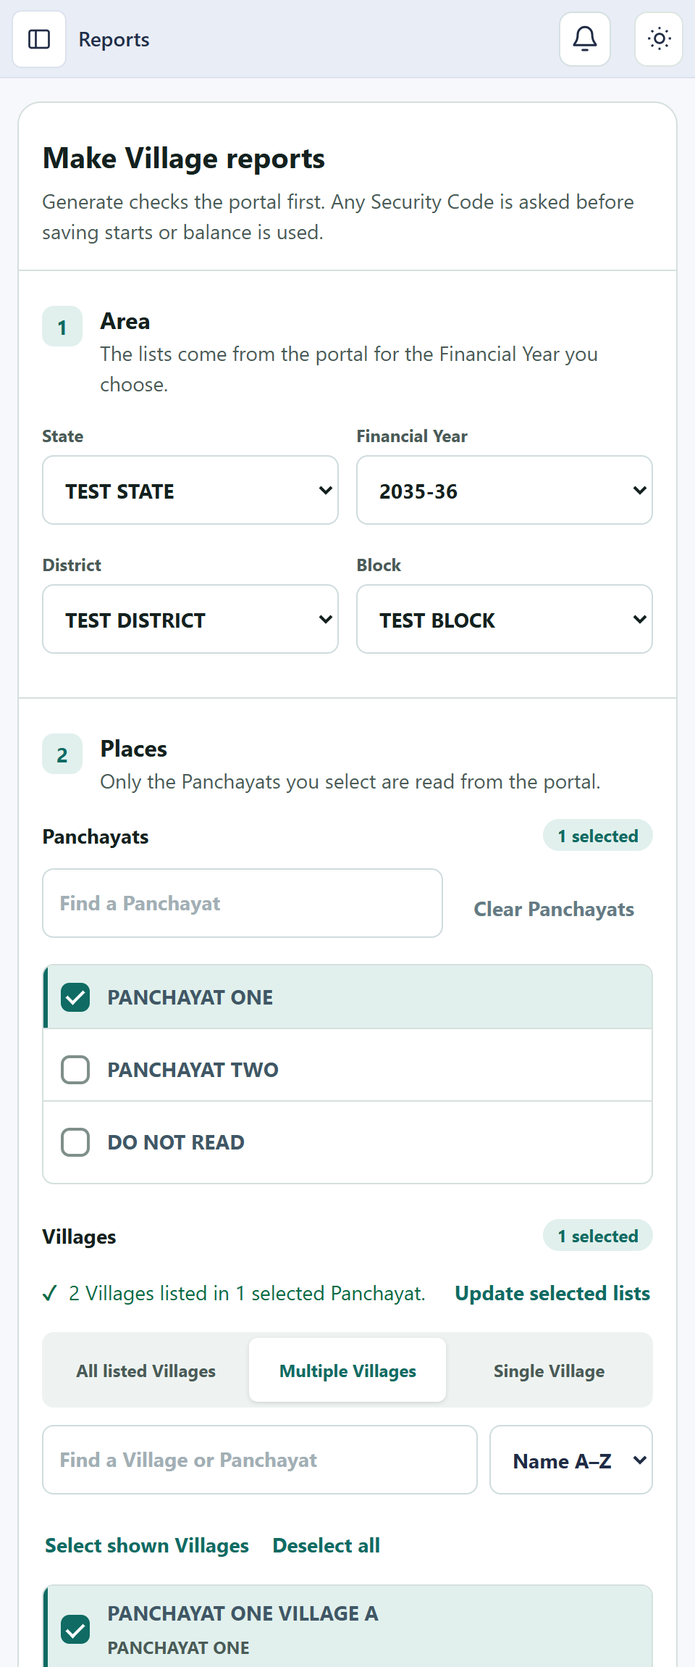
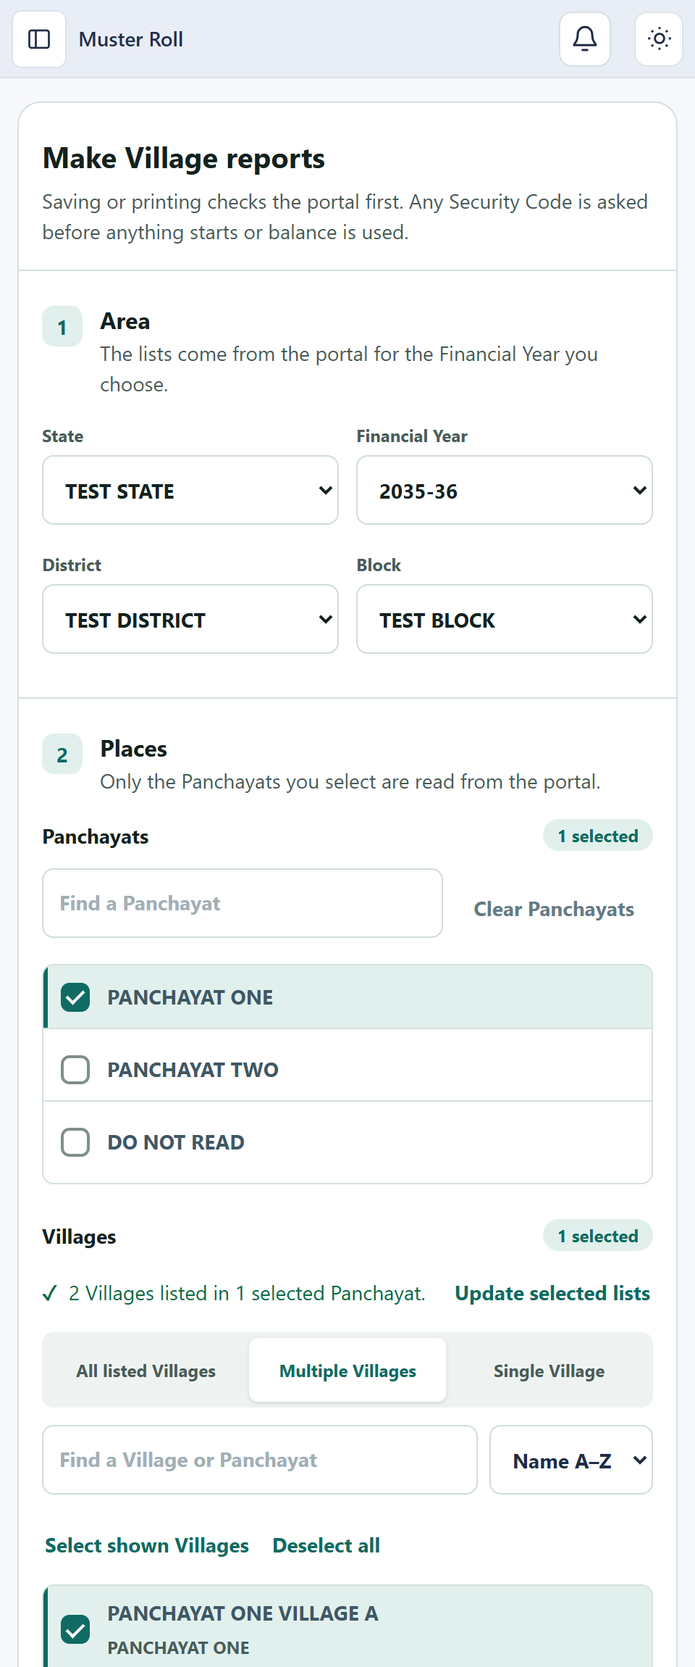
Refresh app showcase, 15 fictional previews and plain-English guides

diff --git a/docs/USER_GUIDE.md b/docs/USER_GUIDE.md
@@ -2,7 +2,7 @@
 
 [Home](../README.md) · [Feature list](FEATURES.md) · [Latest changes](LATEST_CHANGES.md)
 
-**Screens captured for desktop 1.4.35 and Android 1.4.32 · 2026-11-06.**
+**Screens captured for desktop 1.4.36 and Android 1.4.32 · 2026-11-06.**
 
 Screenshots use fictional people and areas. Android and desktop are labelled separately. Your assigned areas and the portal's current lists determine what you can see.
 
@@ -32,7 +32,9 @@ The tutorial covers setup, area choices, Android requests, office review, days a
 Sign in to the app with your own Google account. This is separate from the official portal sign-in. Portal setup has only two steps:
 
 1. **Select login area.** Choose your State, Financial Year, District and Block from the current portal lists. Choose **Save and open login page**. Use **Change login area** if you need another area.
-2. **Sign in.** Enter your User ID, password and Security Code on the official VBGRAMG page. Choose **Login** yourself.
+2. **Sign in.** Enter your User ID, password and Security Code on the official VBGRAMG page. Press **Enter** in the Security Code box, or choose **Login**. Once your login details are saved, they fill in by themselves and the cursor waits in the Security Code box, so you only type the code and press Enter.
+
+Until the portal confirms your sign-in, only **Browser** and **Settings** open. The other menus are greyed out. After sign-in, every menu stays open until you close the app. Developer accounts can open every menu without signing in.
 
 The app waits for the login form to be ready. Images that are still loading do not stop it. If the portal cannot open your choices, read the message below **Save and open login page**. Your area stays saved. Use the same button to try again. If a Security Code page is already open, finish it in **Sign in**.
 
@@ -46,7 +48,7 @@ All app menus stay available before portal sign-in and after portal sign-out. Op
 
 ### Records for your selected area
 
-Choose the area you need in **Work Demand**. The app reuses saved records and reads missing records for that work. You can also use **My Areas** for places you work on often, or **Settings → Records** to download or update area records. These tools are separate from portal setup. **Reports** opens the Muster Roll tools when you need them. A Muster Roll is the official worker attendance list.
+Choose the area you need in **Work Demand**. The app reuses saved records and reads missing records for that work. You can also use **My Areas** for places you work on often, or **Settings → Records** to download or update area records. These tools are separate from portal setup. **Muster Roll** opens the Muster Roll tools when you need them. A Muster Roll is the official worker attendance list.
 
 The current Panchayat or Village gets the first download and check. Completed records stay saved. A deliberate pause is kept. In Settings, **Download Data** reuses current saved records; **Update Data** asks for new checks. Read the progress message if a report stops. Personal sign-in and report Security Codes still need your answer.
 
@@ -88,16 +90,16 @@ The sidebar shows one line for each tool. Point at a tool to read a short explan
 
 Your selected Panchayat and Village stay in place while Received requests and background records are checked. Changing a Panchayat updates its Village choices. Use **Update lists** when you need to read an area list again. The earlier choices stay visible during that read and if it fails; choose **Try again** after a failure. Changing a parent area clears only the choices below it.
 
-Published downloads: desktop **1.4.35**, Android **1.4.32**.
+Published downloads: desktop **1.4.36**, Android **1.4.32**.
 
 | Device | Download |
 | --- | --- |
-| Windows 64-bit | [Download 1.4.35](https://github.com/Changtey/Worker-Demand-releases/releases/download/v1.4.35/VBGRAMG-DEO-Assistant-1.4.35-Setup.exe) |
-| Linux Debian / Ubuntu | [Download 1.4.35](https://github.com/Changtey/Worker-Demand-releases/releases/download/v1.4.35/VBGRAMG-DEO-Assistant-1.4.35-Linux-x64.deb) |
-| Linux AppImage | [Download 1.4.35](https://github.com/Changtey/Worker-Demand-releases/releases/download/v1.4.35/VBGRAMG-DEO-Assistant-1.4.35-Linux-x64.AppImage) |
+| Windows 64-bit | [Download 1.4.36](https://github.com/Changtey/Worker-Demand-releases/releases/download/v1.4.36/VBGRAMG-DEO-Assistant-1.4.36-Setup.exe) |
+| Linux Debian / Ubuntu | [Download 1.4.36](https://github.com/Changtey/Worker-Demand-releases/releases/download/v1.4.36/VBGRAMG-DEO-Assistant-1.4.36-Linux-x64.deb) |
+| Linux AppImage | [Download 1.4.36](https://github.com/Changtey/Worker-Demand-releases/releases/download/v1.4.36/VBGRAMG-DEO-Assistant-1.4.36-Linux-x64.AppImage) |
 | Android APK | [Download 1.4.32](https://github.com/Changtey/Worker-Demand-releases/releases/download/v1.4.32/Worker-Demand-1.4.32.apk) |
 
-[Release notes and checksums](https://github.com/Changtey/Worker-Demand-releases/releases/tag/v1.4.35).
+[Release notes and checksums](https://github.com/Changtey/Worker-Demand-releases/releases/tag/v1.4.36).
 
 ### Find the next task
 
@@ -211,7 +213,7 @@ Before saving access for a new area or Financial Year, download its complete wor
 
 1. Open **Browser**, then open VBGRAMG with your chosen area.
 2. Check the website and area before entering your User ID and Password.
-3. Enter the **Security Code** yourself and choose **Login**.
+3. Type the **Security Code** yourself and press **Enter**, or choose **Login**. The code picture is shown larger. If it is hard to read, choose the New code button next to it; your saved password fills in again.
 4. On the matching official login page, **Save** or **Update** stores the login pair only when you choose it. **Login details** lets you change or delete the saved pair.
 5. Keep the Browser open for current portal checks and entry. Follow the messages when the session needs signing in again.
 
@@ -295,7 +297,7 @@ For an Android request, its Panchayat or Village and Financial Year are prepared
 
 Opening a received request gives its selected Village and Financial Year first priority for Aadhaar availability, ABPS and the other worker checks. You do not need to choose the same place in **Create demand**. This priority stays while you open **Browser** to sign in. Your separate Create demand area, days and dates are kept. For a request with several Villages, choose the Village you want to review.
 
-The Panchayat or Village selected in the tab you are using owns the turn for its queued download or update, including areas outside My Areas. A selected Village holds downloads for its siblings and all other areas. A selected Panchayat includes every Village in its current offered list, read one by one. Other areas resume afterward, one at a time. This applies across Create demand, Received requests, Job Cards, Reports and area choices. Your saved My Areas stay the same. The signed-in portal account must still offer the selected area and Financial Year. Each open app copy shows the progress of its own portal connection.
+The Panchayat or Village selected in the tab you are using owns the turn for its queued download or update, including areas outside My Areas. A selected Village holds downloads for its siblings and all other areas. A selected Panchayat includes every Village in its current offered list, read one by one. Other areas resume afterward, one at a time. This applies across Create demand, Received requests, Job Cards, Muster Roll and area choices. Your saved My Areas stay the same. The signed-in portal account must still offer the selected area and Financial Year. Each open app copy shows the progress of its own portal connection.
 
 When you change Panchayat or Village, the new choice gets the next turn, including a place you visited earlier. The previous page may finish; the previous area's remaining downloads wait with their saved progress. The next area starts after that read stops, without waiting for the regular background check. Required worker checks keep priority after the selected area's public lists finish. If the area lists briefly show **Switching to the selected area**, they continue automatically. You do not need to choose **Try again** for this handover. A deliberate pause or a removed download stays stopped.
 
@@ -393,15 +395,21 @@ After an error or stop, open the request and choose **Send to Browser again**. T
 
 ## 9. Prepare Muster Roll reports
 
-A **Muster Roll** is the official worker attendance list. Open **Reports** on desktop. **Make Village reports** has three steps:
+A **Muster Roll** is the official worker attendance list. Open **Muster Roll** on desktop. **Make Village reports** has three steps:
 
 1. **Area:** choose the State, Financial Year, District and Block from the portal's current lists.
 2. **Places:** tick the Panchayats you need. Then choose **All listed Villages**, **Multiple Villages** or **Single Village**.
 3. **Categories and pages:** tick the caste categories to include. Each page group starts a new page. Use **Change page groups** to join or rename groups.
 
-The bar at the bottom shows the Villages selected, the balance needed (2 for each Village report) and your available balance. If something is still missing, the line under **Generate** says what to do next. Each Village gets its own PDF. Several Villages are saved together in one ZIP file. Only saved Village PDFs use balance.
+The bar at the bottom shows the Villages selected, the balance needed (2 for each Village report) and your available balance. It has three buttons:
 
-**Generate** checks the portal first. If the portal asks for its **Security Code**, a box appears at the top of Reports before the save box opens and before any balance is used. You can also choose **Check portal now** earlier. Read the question, type the answer and press Enter. For a sum, the app shows a suggested answer, but you type and send it yourself. If the portal asks again during a long read, the same box appears, the taskbar button blinks and other screens show a reminder.
+- **Save PDF:** each Village gets its own PDF. Several Villages are saved together in one ZIP file.
+- **Save Excel:** each Village gets its own Excel file, with one sheet for each Muster Roll and page group. Several Villages are saved together in one ZIP file.
+- **Print:** makes one PDF of all selected Villages and opens it in your PDF app. Check the pages, then choose **Print** there. A Village with no matching worker rows gets a short notice page.
+
+Each button uses 2 from your balance for each Village that is saved or printed. Failed or stopped Villages cost nothing. If something is still missing, the line under the buttons says what to do next.
+
+**Save PDF**, **Save Excel** and **Print** check the portal first. If the portal asks for its **Security Code**, a box appears at the top of the Muster Roll screen before the save box opens and before any balance is used. You can also choose **Check portal now** earlier. Read the question, type the answer and press Enter. For a sum, the app shows a suggested answer, but you type and send it yourself. If the portal asks again during a long read, the same box appears, the taskbar button blinks and other screens show a reminder.
 
 **Saved report copies** lists single Muster Rolls already read on this computer. Search by Muster Roll number, Panchayat or Work Code, then preview, print, or save them as PDF or Excel. **Read a public report page yourself** is for special cases.
 
@@ -553,7 +561,7 @@ Never include real Aadhaar numbers, passwords, Security Codes or login codes in 
 
 ## Simple navigation and settings
 
-The desktop menu uses **Work Demand**, **Job Cards**, **Reports**, **Browser**, **My Areas**, **Android access** and **Settings**. Your saved menu order and hidden choices are kept. **Reports** opens Muster Roll Reports, the official worker attendance lists.
+The desktop menu uses **Work Demand**, **Job Cards**, **Muster Roll**, **Browser**, **My Areas**, **Android access** and **Settings**. Your saved menu order and hidden choices are kept. **Muster Roll** opens Muster Roll Reports, the official worker attendance lists.
 
 **Settings** groups choices under **Work**, **App** and **Account**. On a narrow screen, use **Settings section** to choose a page. Unsaved changes stay while you switch sections. Read any unsaved-change warning before closing the app.
 

diff --git a/docs/FEATURES.md b/docs/FEATURES.md
@@ -2,7 +2,7 @@
 
 [Home](../README.md) · [User guide](USER_GUIDE.md) · [Latest changes](LATEST_CHANGES.md)
 
-**Screens captured for desktop 1.4.35 and Android 1.4.32 · 2026-11-06.**
+**Screens captured for desktop 1.4.36 and Android 1.4.32 · 2026-11-06.**
 
 - **Learn and practise:** [watch the nine-part tutorial](https://changtey.github.io/Worker-Demand-releases/learn/classroom.html), [try the guided practice app](https://changtey.github.io/Worker-Demand-releases/learn/practice.html) or [open full-size app pictures](https://changtey.github.io/Worker-Demand-releases/learn/screenshots.html). The practice copy uses sample records and ends at Check demand.
 
@@ -35,13 +35,13 @@
 
 ## First setup and daily records
 
-- **Menus stay available:** open every app menu before portal sign-in, during setup or after portal sign-out. Setup stays in Browser. Portal checks and entry still need the right signed-in account.
+- **Portal sign-in comes first:** a regular account can use only **Browser** and **Settings** until the portal confirms sign-in. The other menus are greyed out, with a short note in the side menu. After sign-in, every menu stays open until the app is closed, even if the portal session ends later. Developer accounts can use every menu without signing in. Portal checks and entry still need the right signed-in account.
 - **Work Demand opens after sign-in:** a confirmed portal sign-in opens **Create demand** immediately.
 - **Two setup steps:** Select login area → Sign in → Start Work Demand Creation. Setup does not select work areas or start record or Muster Roll downloads. Older unfinished setup downloads cannot block access.
 - **Personal default login page:** choose your State, Financial Year, District and Block on **Login area**. **Save and open login page** applies those choices in Browser and moves to **Sign in**. Enter the official User ID, password and CAPTCHA yourself. The app waits for the form to be ready and continues while other images load. Any opening problem is explained in setup, with the saved choices kept for retry.
 - **Secure saving after sign-in:** choose to save the login pair on the Login area form. The original User ID and password are saved securely only after a confirmed sign-in. Failed logins keep the earlier saved pair. CAPTCHA is never saved. Save, Update and Login details remain available in Browser.
 - **Choose areas when working:** select the area for each demand in Work Demand. Use **My Areas** to save places you work on often.
-- **Separate record tools:** use **Settings → Records** to download or update area records. Use **Reports** for Muster Roll reports. These are separate from setup.
+- **Separate record tools:** use **Settings → Records** to download or update area records. Use **Muster Roll** for Muster Roll reports. These are separate from setup.
 - **Reuse saved records:** current saved records make later area work faster. Missing records are checked when needed.
 - **Reasons for stopped progress:** missing worker checks name their Village. Worker reads explain unreadable Yes or No answers, unmatched worker details, missing Job Cards and member lists that did not load. A disagreeing Muster Roll summary keeps its warning while checked source reports are saved and reused on retry.
 - **Daily background updates:** area records can update while the app is open and connected. Your current area comes first. Completed records are reused, portal entry takes priority, and a deliberate pause is kept. Personal sign-in and report Security Codes still need your answer.
@@ -91,7 +91,7 @@ Saved selections do not change official permissions. Source downloads do not sub
 | Process a request again | Copy a received request's workers into a new demand after Completed, Partly completed or a stop, as often as needed. Shows how many times it was processed on this PC | The sent request and its history stay unchanged |
 | Official portal Browser | Open the portal and follow checked entry | Official portal entry is handled by the desktop office workflow |
 | Request PDF and Excel | Download the saved request's reports | Follow the request in History |
-| Muster Roll Reports | Village PDFs of Filled Muster Rolls by caste category, and saved copies as PDF or Excel | Desktop feature |
+| Muster Roll Reports | Village reports of Filled Muster Rolls by caste category, saved as PDF or Excel or printed, and saved copies as PDF or Excel | Desktop feature |
 | Balance and Recharge | Work Demand automation uses 1 for every 20 selected workers, or part of 20 (21–40 workers use 2; 100 workers use 5). It sets this amount aside before entry and uses it only after saved work is confirmed. A low Balance never blocks entry: the part not available is owed and is taken automatically from the next recharge, only if the run completes. There is no limit on the number of workers; the portal lets up to 100 people wait for Work Allocation in a Panchayat, so the app plans parts before entry, stops after each part until you allocate, then the same list continues. Failed runs release their reservation. A run that stops part-way pays only for its saved and checked workers. Low-balance report choices have a Recharge shortcut. Recharge any whole-rupee amount from ₹50 to ₹1,000 (₹1 adds 1) | Secretary request preparation stays free; office charges are handled on desktop |
 | Saved choices | Areas, Financial Year, filters, list size and menus | Assigned area and worker choices |
 | Sidebar menus | One-line menu items (the description shows when you point at an item and is read by screen readers), a clear selected menu, an Arrange menus shortcut and an icon-only view. Every menu shows without scrolling; on a short window the help links become a row of icons. Below 900 pixels wide the menu opens as a drawer | Uses its own bottom bar: Home, History and My account |

diff --git a/README.md b/README.md
@@ -46,16 +46,16 @@ Progress reads family records together to avoid repeated lookups. Worker-check c
 
 ## Download
 
-Published downloads: desktop **1.4.35**, Android **1.4.32**.
+Published downloads: desktop **1.4.36**, Android **1.4.32**.
 
 | Device | Download |
 | --- | --- |
-| Windows 64-bit | [Download 1.4.35](https://github.com/Changtey/Worker-Demand-releases/releases/download/v1.4.35/VBGRAMG-DEO-Assistant-1.4.35-Setup.exe) |
-| Linux Debian / Ubuntu | [Download 1.4.35](https://github.com/Changtey/Worker-Demand-releases/releases/download/v1.4.35/VBGRAMG-DEO-Assistant-1.4.35-Linux-x64.deb) |
-| Linux AppImage | [Download 1.4.35](https://github.com/Changtey/Worker-Demand-releases/releases/download/v1.4.35/VBGRAMG-DEO-Assistant-1.4.35-Linux-x64.AppImage) |
+| Windows 64-bit | [Download 1.4.36](https://github.com/Changtey/Worker-Demand-releases/releases/download/v1.4.36/VBGRAMG-DEO-Assistant-1.4.36-Setup.exe) |
+| Linux Debian / Ubuntu | [Download 1.4.36](https://github.com/Changtey/Worker-Demand-releases/releases/download/v1.4.36/VBGRAMG-DEO-Assistant-1.4.36-Linux-x64.deb) |
+| Linux AppImage | [Download 1.4.36](https://github.com/Changtey/Worker-Demand-releases/releases/download/v1.4.36/VBGRAMG-DEO-Assistant-1.4.36-Linux-x64.AppImage) |
 | Android APK | [Download 1.4.32](https://github.com/Changtey/Worker-Demand-releases/releases/download/v1.4.32/Worker-Demand-1.4.32.apk) |
 
-[Release notes and checksums](https://github.com/Changtey/Worker-Demand-releases/releases/tag/v1.4.35).
+[Release notes and checksums](https://github.com/Changtey/Worker-Demand-releases/releases/tag/v1.4.36).
 
 Check the linked release notes for tested systems and remaining limits. Windows publisher signing is still pending for the current test release.
 
@@ -104,7 +104,7 @@ The app follows the portal's offered **State → District → Block → Panchaya
 
 ## See the app
 
-**Screens captured for desktop 1.4.35 and Android 1.4.32 · 2026-11-06.**
+**Screens captured for desktop 1.4.36 and Android 1.4.32 · 2026-11-06.**
 
 All 15 pictures use fictional records. **Android** pictures show the current Android screens at phone size. **Desktop preview** pictures show the current desktop app in a narrow window; they do not mean that desktop tools are available in Android. Open any picture for the full size. The pictures do not show a real office account or an official submission.
 
@@ -200,9 +200,12 @@ Work Demand charging was turned on after the app publication. Browser automation
 
 This online service update applies to the existing app downloads. The recharge package stays ₹50 for 50 Balance. No installation file was replaced. The earlier release notes describe the charging setting at the time they were written.
 
-**Published 1.4.35**
+**Published 1.4.36**
 
-- **Update button in the sidebar.** The app still updates itself in the background: it downloads a new version and installs it when you close the app, or when the computer is not used for 10 minutes. Now, when a new version is ready, a green **Update to …** button also shows in the sidebar. Choose it to update at…
-- **Settings → App updates.** See your version, choose **Check for updates**, and see each step: checking, downloading, ready, or already the newest version.
+- **Muster Roll menu.** The **Reports** menu is now called **Muster Roll**. A Muster Roll is the official worker attendance list.
+- **Sign in to the portal first.** Until the portal confirms your sign-in, only **Browser** and **Settings** open. The other menus are greyed out, and the side menu tells you to sign in to VBGRAMG in Browser. After sign-in, every menu stays open until you close the app, even if the portal session ends later.
+- **Save Excel and Print for Village reports.** **Muster Roll → Make Village reports** now has **Save PDF**, **Save Excel** and **Print**. Save Excel gives each Village its own Excel file; several Villages are saved together in one ZIP file. Print makes one PDF of all selected Villages and opens it in your PDF app,…
+- **Excel copies show more.** Excel copies now show the Village name and split the SC, ST and Other amounts by each worker&#x27;s category, the same as the PDF.
+- **Faster portal login.** After your saved User ID and password fill in, the cursor waits in the Security Code box. Type the code and press **Enter** to log in. Before, Enter asked for a new code and emptied the password. The code picture and its New code button are larger. You still read and type the Security Code…
 
 See [latest changes and their release status](docs/LATEST_CHANGES.md). The public repository holds downloads and guides. App building files and office records stay on the owner's computer.

diff --git a/docs/LATEST_CHANGES.md b/docs/LATEST_CHANGES.md
@@ -2,20 +2,20 @@
 
 [Home](../README.md) · [User guide](USER_GUIDE.md) · [Features](FEATURES.md)
 
-**Screens captured for desktop 1.4.35 and Android 1.4.32 · 2026-11-06.**
+**Screens captured for desktop 1.4.36 and Android 1.4.32 · 2026-11-06.**
 
 ## Published apps
 
-Published downloads: desktop **1.4.35**, Android **1.4.32**.
+Published downloads: desktop **1.4.36**, Android **1.4.32**.
 
 | Device | Download |
 | --- | --- |
-| Windows 64-bit | [Download 1.4.35](https://github.com/Changtey/Worker-Demand-releases/releases/download/v1.4.35/VBGRAMG-DEO-Assistant-1.4.35-Setup.exe) |
-| Linux Debian / Ubuntu | [Download 1.4.35](https://github.com/Changtey/Worker-Demand-releases/releases/download/v1.4.35/VBGRAMG-DEO-Assistant-1.4.35-Linux-x64.deb) |
-| Linux AppImage | [Download 1.4.35](https://github.com/Changtey/Worker-Demand-releases/releases/download/v1.4.35/VBGRAMG-DEO-Assistant-1.4.35-Linux-x64.AppImage) |
+| Windows 64-bit | [Download 1.4.36](https://github.com/Changtey/Worker-Demand-releases/releases/download/v1.4.36/VBGRAMG-DEO-Assistant-1.4.36-Setup.exe) |
+| Linux Debian / Ubuntu | [Download 1.4.36](https://github.com/Changtey/Worker-Demand-releases/releases/download/v1.4.36/VBGRAMG-DEO-Assistant-1.4.36-Linux-x64.deb) |
+| Linux AppImage | [Download 1.4.36](https://github.com/Changtey/Worker-Demand-releases/releases/download/v1.4.36/VBGRAMG-DEO-Assistant-1.4.36-Linux-x64.AppImage) |
 | Android APK | [Download 1.4.32](https://github.com/Changtey/Worker-Demand-releases/releases/download/v1.4.32/Worker-Demand-1.4.32.apk) |
 
-[Release notes and checksums](https://github.com/Changtey/Worker-Demand-releases/releases/tag/v1.4.35).
+[Release notes and checksums](https://github.com/Changtey/Worker-Demand-releases/releases/tag/v1.4.36).
 
 The linked release notes describe what was built, checked and published. A current source picture does not update an installed app or replace an installation file.
 
@@ -49,10 +49,13 @@ Work Demand charging was turned on after the app publication. Browser automation
 
 This online service update applies to the existing app downloads. The recharge package stays ₹50 for 50 Balance. No installation file was replaced. The earlier release notes describe the charging setting at the time they were written.
 
-**Published 1.4.35**
+**Published 1.4.36**
 
-- **Update button in the sidebar.** The app still updates itself in the background: it downloads a new version and installs it when you close the app, or when the computer is not used for 10 minutes. Now, when a new version is ready, a green **Update to …** button also shows in the sidebar. Choose it to update at…
-- **Settings → App updates.** See your version, choose **Check for updates**, and see each step: checking, downloading, ready, or already the newest version.
+- **Muster Roll menu.** The **Reports** menu is now called **Muster Roll**. A Muster Roll is the official worker attendance list.
+- **Sign in to the portal first.** Until the portal confirms your sign-in, only **Browser** and **Settings** open. The other menus are greyed out, and the side menu tells you to sign in to VBGRAMG in Browser. After sign-in, every menu stays open until you close the app, even if the portal session ends later.
+- **Save Excel and Print for Village reports.** **Muster Roll → Make Village reports** now has **Save PDF**, **Save Excel** and **Print**. Save Excel gives each Village its own Excel file; several Villages are saved together in one ZIP file. Print makes one PDF of all selected Villages and opens it in your PDF app,…
+- **Excel copies show more.** Excel copies now show the Village name and split the SC, ST and Other amounts by each worker&#x27;s category, the same as the PDF.
+- **Faster portal login.** After your saved User ID and password fill in, the cursor waits in the Security Code box. Type the code and press **Enter** to log in. Before, Enter asked for a new code and emptied the password. The code picture and its New code button are larger. You still read and type the Security Code…
 
 These pictures were refreshed from the source used for this publication.
 
